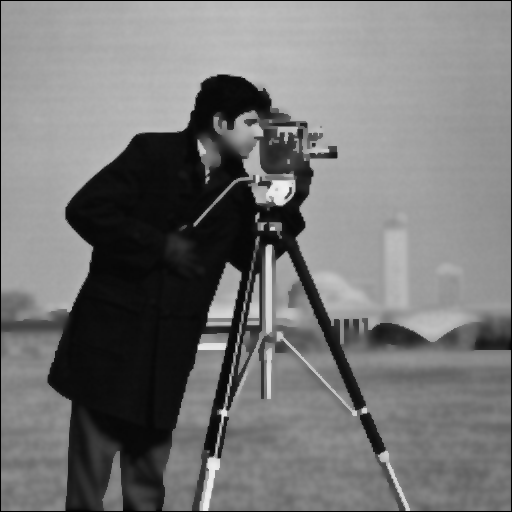
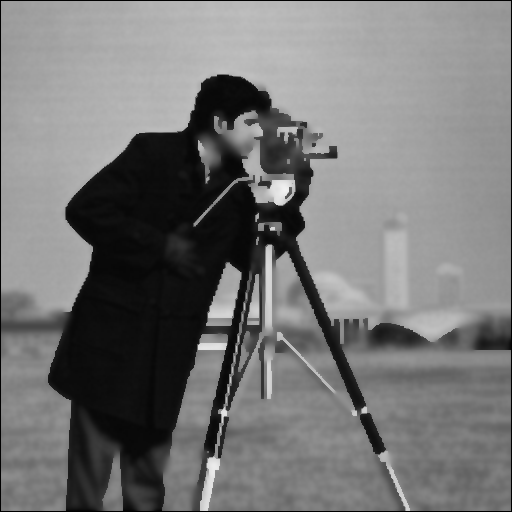
added support for both g(*) in wheelnoise

diff --git a/part2.m b/part2.m
@@ -1,11 +1,18 @@
 img = imread('Images/cwheelnoise.gif');
 
 % Part a
-wheelplot(img, 0);
+wheelplot(img, 0, 'init');
 for e = 1:100
     img = anisoDiff(img, 50, 'exp');
     if (e == 5 || e == 20 || e == 100)
-        wheelplot(img, e);
+        wheelplot(img, e, 'exp');
+    end
+end
+
+for e = 1:100
+    img = anisoDiff(img, 25, 'inv');
+    if (e == 5 || e == 20 || e == 100)
+        wheelplot(img, e, 'inv');
     end
 end
 
@@ -14,7 +21,7 @@ img = imread('Images/cameraman.tif');
 
 imwrite(img, strcat("part2img/cameraman_img", num2str(0), ".png"))
 for e = 1:100
-    img = anisoDiff(img, 20, 'exp');
+    img = anisoDiff(img, 25, 'exp');
     if (e == 5 || e == 20 || e == 100)
         imwrite(img, strcat("part2img/cameraman_img_exp_", num2str(e), ".png"))
     end
@@ -27,20 +34,20 @@ for e = 1:100
     end
 end
 
-function wheelplot(img, epoch)
+function wheelplot(img, epoch, type)
 % org img
-imwrite(img, strcat("part2img/img_", num2str(epoch), ".png"))
+imwrite(img, strcat("part2img/img_", type, num2str(epoch), ".png"))
 
 % histogram
 histogram(img);
-saveas(gcf,strcat("part2img/hist_", num2str(epoch), ".png"))
+saveas(gcf,strcat("part2img/hist_", type, num2str(epoch), ".png"))
 close all
 
 % line 128
 line128 = img(:,128);
-imwrite(line128, strcat("part2img/line128_", num2str(epoch), ".png"))
+imwrite(line128, strcat("part2img/line128_", type, num2str(epoch), ".png"))
 
 % spoke range
 spokes = img(70:186,70:186);
-imwrite(spokes, strcat("part2img/spokes_", num2str(epoch), ".png"))
+imwrite(spokes, strcat("part2img/spokes_", type, num2str(epoch), ".png"))
 end
